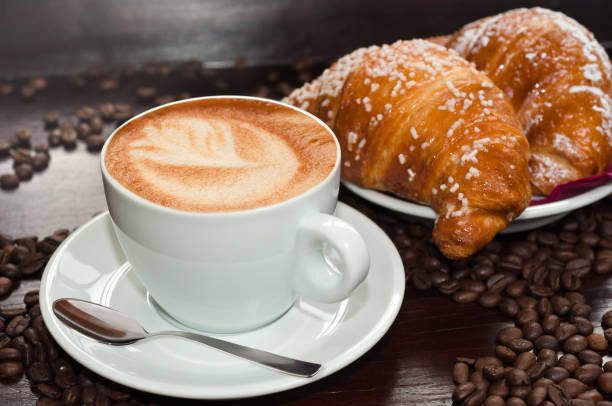
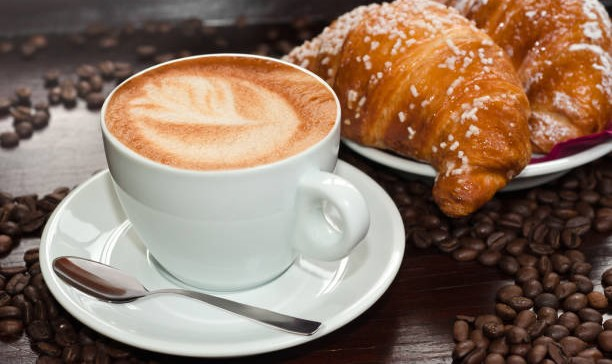
.

diff --git a/index.html b/index.html
@@ -38,31 +38,31 @@
         </div>
     </nav>
 
-   <div class="container-fluid myContainer" id="titulo">
-  La Panetteria Famiglia Leone
-</div>
+    <div class="container-fluid myContainer" id="titulo">
+        La Panetteria Famiglia Leone
+    </div>
 
-<div id="carouselExampleAutoplaying" class="carousel slide" data-bs-ride="carousel">
-  <div class="carousel-inner">
-    <div class="carousel-item active">
-      <img src="imagens/tiramisu.jpg" class="d-block w-100" alt="..." height="400">
+    <div id="carouselExampleAutoplaying" class="carousel slide" data-bs-ride="carousel">
+        <div class="carousel-inner">
+            <div class="carousel-item active">
+                <img src="imagens/tiramisu.jpg" class="d-block w-100" alt="..." height="200">
+            </div>
+            <div class="carousel-item">
+                <img src="imagens/promoção.png" class="d-block w-100" alt="..." height="200">
+            </div>
+            <div class="carousel-item">
+                <img src="imagens/CaféDaPadaria.jpg" class="d-block w-100" alt="..." height="200">
+            </div>
+        </div>
+        <button class="carousel-control-prev" type="button" data-bs-target="#carouselExampleAutoplaying" data-bs-slide="prev">
+            <span class="carousel-control-prev-icon" aria-hidden="true"></span>
+            <span class="visually-hidden">Previous</span>
+        </button>
+        <button class="carousel-control-next" type="button" data-bs-target="#carouselExampleAutoplaying" data-bs-slide="next">
+            <span class="carousel-control-next-icon" aria-hidden="true"></span>
+            <span class="visually-hidden">Next</span>
+        </button>
     </div>
-    <div class="carousel-item">
-      <img src="imagens/promoção.png" class="d-block w-100" alt="..." height="300">
-    </div>
-    <div class="carousel-item">
-      <img src="imagens/CaféDaPadaria.jpg" class="d-block w-100" alt="..." height="400">
-    </div>
-  </div>
-  <button class="carousel-control-prev" type="button" data-bs-target="#carouselExampleAutoplaying" data-bs-slide="prev">
-    <span class="carousel-control-prev-icon" aria-hidden="true"></span>
-    <span class="visually-hidden">Previous</span>
-  </button>
-  <button class="carousel-control-next" type="button" data-bs-target="#carouselExampleAutoplaying" data-bs-slide="next">
-    <span class="carousel-control-next-icon" aria-hidden="true"></span>
-    <span class="visually-hidden">Next</span>
-  </button>
-</div>
 
 
 

diff --git a/franqueado.html b/franqueado.html
@@ -11,10 +11,10 @@
 </head>
 <body>
 
-    <nav class="navbar navbar-expand-lg" style="background-color: #ae7a47;" data-bs-theme="blue" id="subtitulo">
+    <nav class="navbar navbar-expand-lg bg-body-tertiary">
         <div class="container-fluid">
             <a class="navbar-brand" href="#">
-                <img src="imagens/logo-sem-fundo.png" alt="Logo" width="100" height="100" class="d-inline-block align-text-top">
+                <img src="imagens/icone.ico" alt="Logo" width="60" height="60" class="d-inline-block align-text-top">
             </a>
             <button class="navbar-toggler" type="button" data-bs-toggle="collapse" data-bs-target="#navbarNav" aria-controls="navbarNav" aria-expanded="false" aria-label="Toggle navigation">
                 <span class="navbar-toggler-icon"></span>
@@ -22,7 +22,7 @@
             <div class="collapse navbar-collapse" id="navbarNav">
                 <ul class="navbar-nav">
                     <li class="nav-item">
-                        <a class="nav-link" href="index.html">Home</a>
+                        <a class="nav-link active" href="index.html">Home</a>
                     </li>
                     <li class="nav-item">
                         <a class="nav-link" href="contato.html">Contato</a>
@@ -31,7 +31,7 @@
                         <a class="nav-link" href="sobreNos.html" aria-current="page">Sobre nós</a>
                     </li>
                     <li class="nav-item">
-                        <a class="nav-link active" href="#" aria-current="page">Seja um franqueado</a>
+                        <a class="nav-link " href="#" aria-current="page">Seja um franqueado</a>
                     </li>
                 </ul>
             </div>

diff --git a/sobreNos.html b/sobreNos.html
@@ -11,10 +11,10 @@
 </head>
 <body>
 
-    <nav class="navbar navbar-expand-lg" style="background-color: #ae7a47;" data-bs-theme="blue" id="subtitulo">
+    <nav class="navbar navbar-expand-lg bg-body-tertiary">
         <div class="container-fluid">
             <a class="navbar-brand" href="#">
-                <img src="imagens/logo-sem-fundo.png" alt="Logo" width="100" height="100" class="d-inline-block align-text-top">
+                <img src="imagens/icone.ico" alt="Logo" width="60" height="60" class="d-inline-block align-text-top">
             </a>
             <button class="navbar-toggler" type="button" data-bs-toggle="collapse" data-bs-target="#navbarNav" aria-controls="navbarNav" aria-expanded="false" aria-label="Toggle navigation">
                 <span class="navbar-toggler-icon"></span>
@@ -22,13 +22,13 @@
             <div class="collapse navbar-collapse" id="navbarNav">
                 <ul class="navbar-nav">
                     <li class="nav-item">
-                        <a class="nav-link" href="index.html">Home</a>
+                        <a class="nav-link active" href="index.html">Home</a>
                     </li>
                     <li class="nav-item">
                         <a class="nav-link" href="contato.html">Contato</a>
                     </li>
                     <li class="nav-item">
-                        <a class="nav-link active" href="#" aria-current="page">Sobre nós</a>
+                        <a class="nav-link" href="#" aria-current="page">Sobre nós</a>
                     </li>
                     <li class="nav-item">
                         <a class="nav-link " href="franqueado.html">Seja um franqueado</a>

diff --git a/contato.html b/contato.html
@@ -11,10 +11,10 @@
 </head>
 <body>
 
-    <nav class="navbar navbar-expand-lg" style="background-color: #ae7a47;" data-bs-theme="blue" id="subtitulo">
+    <nav class="navbar navbar-expand-lg bg-body-tertiary">
         <div class="container-fluid">
             <a class="navbar-brand" href="#">
-                <img src="imagens/logo-sem-fundo.png" alt="Logo" width="100" height="100" class="d-inline-block align-text-top">
+                <img src="imagens/icone.ico" alt="Logo" width="60" height="60" class="d-inline-block align-text-top">
             </a>
             <button class="navbar-toggler" type="button" data-bs-toggle="collapse" data-bs-target="#navbarNav" aria-controls="navbarNav" aria-expanded="false" aria-label="Toggle navigation">
                 <span class="navbar-toggler-icon"></span>
@@ -22,10 +22,10 @@
             <div class="collapse navbar-collapse" id="navbarNav">
                 <ul class="navbar-nav">
                     <li class="nav-item">
-                        <a class="nav-link" href="index.html">Home</a>
+                        <a class="nav-link active" href="index.html">Home</a>
                     </li>
                     <li class="nav-item">
-                        <a class="nav-link active" href="#" aria-current="page">Contato</a>
+                        <a class="nav-link" href="#" aria-current="page">Contato</a>
                     </li>
                     <li class="nav-item">
                         <a class="nav-link" href="sobreNos.html">Sobre nós</a>

diff --git a/style.css b/style.css
@@ -3,7 +3,7 @@
 @import url('https://fonts.googleapis.com/css2?family=Noto+Sans:ital,wght@0,100..900;1,100..900&display=swap');
 
 
-.fundo{
+.fundo {
     background-color: #eadac0;
     height: 100vh;
 }
@@ -32,6 +32,7 @@
     --bs-btn-focus-border-color: #{rgba($white, .5)};
     --bs-btn-focus-box-shadow: 0 0 0 .25rem rgba(255, 255, 255, .2);
 }
+
 }
 
 #titulo {
@@ -50,7 +51,6 @@
     font-style: normal;
     color: #3f1503;
     text-align: center;
-
 }
 
 body {
@@ -62,8 +62,7 @@ body {
     background-position: left center;
 }
 
-.myContainer{
+.myContainer {
     background-color: #eadac0;
     padding: 5%;
-
 }
